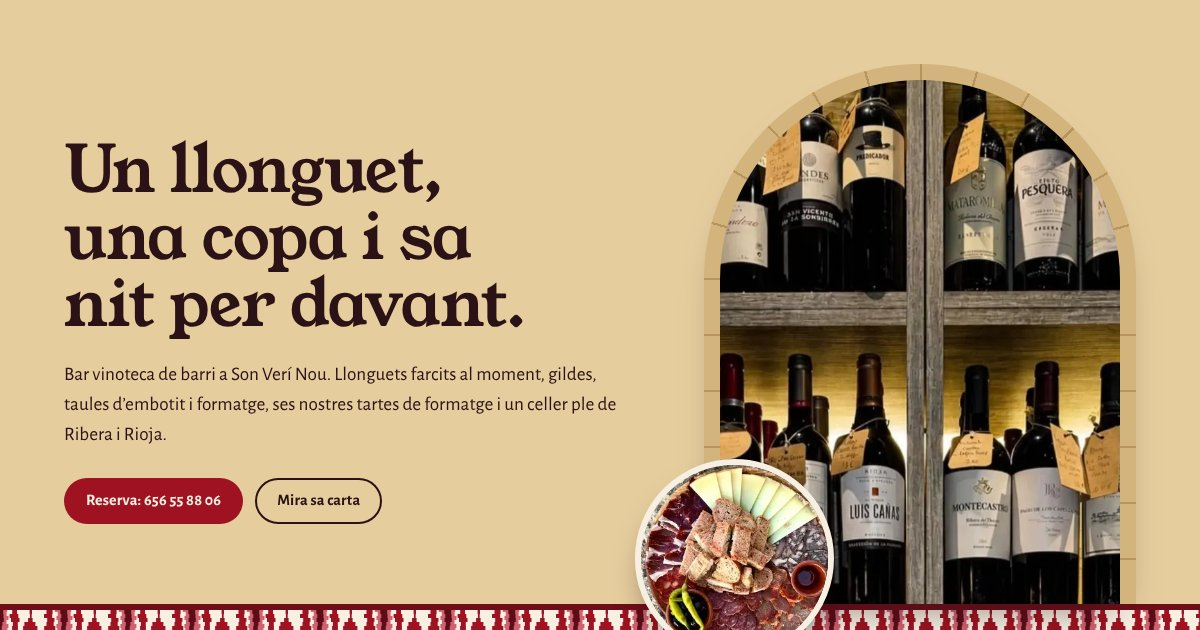
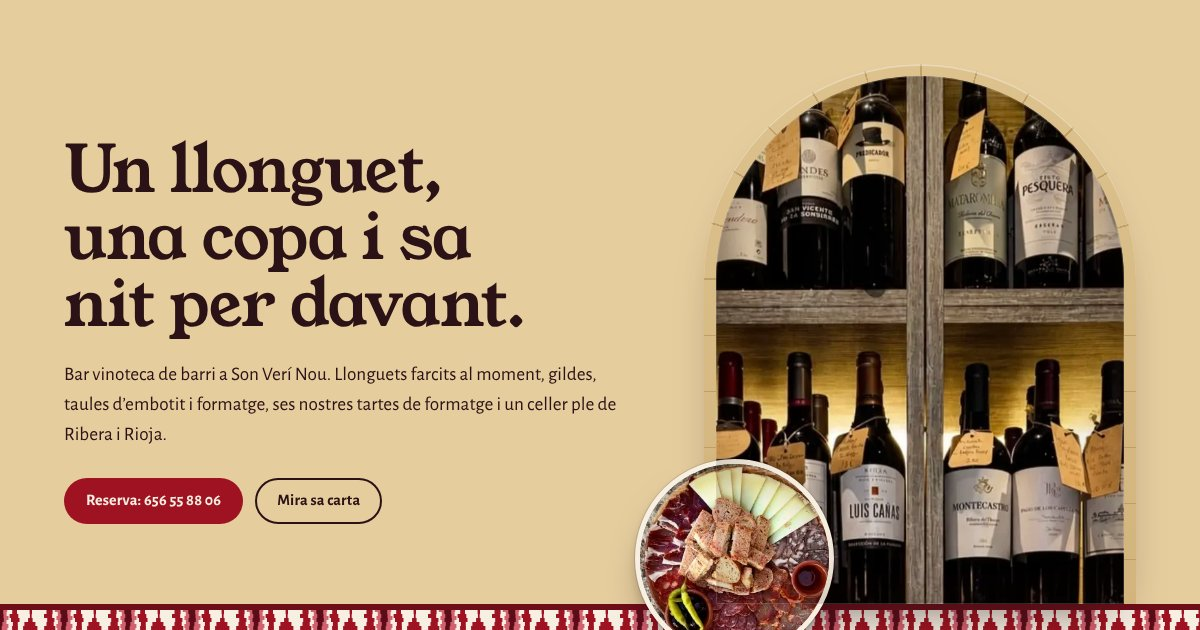
Acabado fino de las fotos: marcos, efectos y animaciones
- Copias con paspartú y pie de foto en mallorquín en la carta
- Filete de galería, sombra y zoom lento en bodega y terraza
- Viñeteado, filo de luz y velo cálido común a todas las fotos
- Fundido sobre el color de cada foto mientras carga
- Arco de marès más fino que se abre al cargar; la tabla entra girando
- Cortina al hacer scroll; sin animaciones con reducir movimiento o sin JS

Claude-Session: https://claude.ai/code/session_01FvQHSWCgW5JPcxUeBWVqzS

Changed region(s): [[0.5242, 0.0905, 0.9558, 1.0]]

diff --git a/css/styles.css b/css/styles.css
@@ -32,6 +32,10 @@
   --gutter: clamp(1rem, 4vw, 2.5rem);
   --header-h: 5rem;
   --radius: 4px;
+
+  /* Movimiento */
+  --ease-out: cubic-bezier(0.2, 0.7, 0.2, 1);
+  --ease-cortina: cubic-bezier(0.65, 0, 0.35, 1);
 }
 
 /* -------- Base -------------------------------------------------------- */
@@ -201,18 +205,27 @@ picture { display: block; }
 .hero-photos { position: relative; max-width: 27rem; width: 100%; margin-left: auto; }
 .arc {
   aspect-ratio: 4 / 5;
-  padding: 16px 16px 0;
+  padding: 12px 12px 0;
   border-radius: 999px 999px 0 0;
   background:
     /* juntas de las dovelas, radiales desde el centro del arco */
-    repeating-conic-gradient(from 270deg at 50% 100%, var(--junta) 0deg 0.6deg, transparent 0.6deg 15deg) top / 100% 40% no-repeat,
+    repeating-conic-gradient(from 270deg at 50% 100%, color-mix(in srgb, var(--junta) 75%, transparent) 0deg 0.45deg, transparent 0.45deg 15deg) top / 100% 40% no-repeat,
     /* juntas horizontales de las jambas */
-    repeating-linear-gradient(180deg, transparent 0 54px, var(--junta) 54px 56px) bottom / 100% 60% no-repeat,
-    var(--mares-fosc);
-  box-shadow: 0 24px 40px -24px rgba(43, 18, 22, 0.6);
+    repeating-linear-gradient(180deg, transparent 0 55px, color-mix(in srgb, var(--junta) 75%, transparent) 55px 56px) bottom / 100% 60% no-repeat,
+    linear-gradient(180deg, #DDC28E, var(--mares-fosc));
+  box-shadow:
+    inset 0 2px 0 rgba(255, 255, 255, 0.35),
+    0 1px 0 rgba(43, 18, 22, 0.06),
+    0 30px 50px -28px rgba(43, 18, 22, 0.65);
 }
-.arc picture, .arc img { width: 100%; height: 100%; }
-.arc img { object-fit: cover; border-radius: 999px 999px 0 0; }
+.arc picture {
+  position: relative;
+  width: 100%; height: 100%;
+  overflow: hidden;
+  border-radius: 999px 999px 0 0;
+  background: radial-gradient(ellipse at 50% 70%, #4A2A1E, var(--vi) 75%);
+}
+.arc img { width: 100%; height: 100%; object-fit: cover; }
 
 .taula-redona {
   position: absolute;
@@ -222,10 +235,15 @@ picture { display: block; }
   aspect-ratio: 1;
   border-radius: 50%;
   overflow: hidden;
-  border: 6px solid var(--cal);
-  box-shadow: 0 18px 30px -12px rgba(43, 18, 22, 0.55);
+  border: 5px solid var(--cal);
+  background: var(--ph, var(--mares-fosc));
+  box-shadow:
+    0 0 0 1px rgba(43, 18, 22, 0.14),
+    0 4px 8px rgba(43, 18, 22, 0.12),
+    0 22px 36px -14px rgba(43, 18, 22, 0.55);
 }
-.taula-redona img { width: 100%; height: 100%; object-fit: cover; }
+.taula-redona picture { position: relative; height: 100%; border-radius: 50%; }
+.taula-redona img { width: 100%; height: 100%; object-fit: cover; transition: transform 1.8s var(--ease-out), opacity 0.7s ease; }
 
 /* -------- Mantel de llengües + carta ---------------------------------- */
 .mantel {
@@ -260,8 +278,7 @@ picture { display: block; }
 .carta-section + .carta-section { border-top: 1px dashed color-mix(in srgb, var(--vi) 22%, transparent); }
 .carta-intro h3 { font-size: var(--t-lg); color: var(--grana); }
 .carta-intro p { color: var(--vi-suau); font-size: 1.02rem; }
-.carta-foto { margin-top: 1.1rem; }
-.carta-foto img { width: 100%; border-radius: var(--radius); box-shadow: 0 10px 20px -12px rgba(43, 18, 22, 0.55); }
+.carta-foto { margin-top: 1.4rem; }
 
 .dishes { list-style: none; margin: 0; padding: 0; align-self: start; }
 .dish { display: grid; gap: 0.15rem; padding-block: 0.95rem; border-bottom: 1px dotted color-mix(in srgb, var(--vi) 30%, transparent); }
@@ -318,7 +335,6 @@ picture { display: block; }
 .celler-copy p { color: color-mix(in srgb, var(--cal) 82%, transparent); max-width: 32em; }
 .celler-copy .section-lead { color: var(--cal); }
 .celler-copy .btn { margin-top: 0.5rem; }
-.celler-foto img { width: 100%; border-radius: var(--radius); box-shadow: 0 20px 40px -20px rgba(0, 0, 0, 0.8); }
 
 /* -------- Sa terrasseta ----------------------------------------------- */
 .terrassa { padding-block: clamp(4rem, 9vw, 7rem); }
@@ -328,7 +344,6 @@ picture { display: block; }
   gap: clamp(2rem, 5vw, 4rem);
   align-items: center;
 }
-.terrassa-foto img { width: 100%; border-radius: var(--radius); box-shadow: 0 20px 40px -24px rgba(43, 18, 22, 0.7); }
 .terrassa-copy .section-lead { color: var(--vi-suau); }
 .terrassa-quote { font-family: var(--f-display); font-size: clamp(2rem, 4vw, 2.75rem); color: var(--grana); margin: 0; }
 
@@ -410,6 +425,124 @@ address a { font-weight: 700; }
 .social { list-style: none; display: flex; gap: 1.25rem; margin: 0; padding: 0; }
 .social a { font-weight: 500; }
 .footer-note { margin: 0; color: color-mix(in srgb, var(--cal) 70%, transparent); font-size: var(--t-sm); }
+
+
+/* =========================================================================
+   FOTOS: acabado común, marcos y animaciones
+   ========================================================================= */
+
+/* Acabado común: fondo del color de la foto mientras carga, filo de luz,
+   viñeteado suave y un velo cálido que unifica fotos de origen distinto */
+.foto { position: relative; }
+.foto picture {
+  position: relative;
+  overflow: hidden;
+  border-radius: var(--r-foto, 12px);
+  background: var(--ph, var(--mares-fosc));
+}
+.foto img { width: 100%; transform: scale(var(--s, 1)); transition: transform 1.4s var(--ease-out), opacity 0.7s ease; }
+.foto picture::before,
+.arc picture::before,
+.taula-redona picture::before {
+  content: ""; position: absolute; inset: 0; z-index: 1; pointer-events: none;
+  border-radius: inherit;
+  background: linear-gradient(160deg, rgba(255, 210, 150, 0.22), rgba(110, 14, 25, 0.16));
+  mix-blend-mode: soft-light;
+}
+.foto picture::after,
+.arc picture::after,
+.taula-redona picture::after {
+  content: ""; position: absolute; inset: 0; z-index: 2; pointer-events: none;
+  border-radius: inherit;
+  box-shadow: inset 0 0 0 1px rgba(255, 255, 255, 0.16), inset 0 0 80px rgba(30, 10, 8, 0.3);
+}
+.taula-redona picture::after { box-shadow: inset 0 0 40px rgba(30, 10, 8, 0.35); }
+
+/* Copias sobre el papel de la carta: paspartú, pie de foto y un leve giro a mano */
+.foto-mat {
+  --r-foto: 3px;
+  --tilt: -0.8deg;
+  background: #FFFDF8;
+  padding: 8px 8px 0;
+  border-radius: 6px;
+  box-shadow:
+    0 1px 1px rgba(43, 18, 22, 0.08),
+    0 3px 6px rgba(43, 18, 22, 0.06),
+    0 16px 30px -16px rgba(43, 18, 22, 0.5);
+  transform: translateY(var(--ty, 0)) rotate(var(--tilt));
+  transition: transform 0.6s var(--ease-out), box-shadow 0.6s ease, opacity 0.9s ease;
+}
+.carta-section:nth-child(odd) .foto-mat { --tilt: 0.7deg; }
+.foto-mat figcaption {
+  font-style: italic;
+  font-size: 0.92rem;
+  color: var(--vi-suau);
+  text-align: center;
+  padding: 0.55rem 0.25rem 0.65rem;
+}
+
+/* Fotos grandes: filete fino desplazado, como un cuadro de galería */
+.foto-marc { --r-foto: 14px; color: inherit; }
+.foto-marc picture {
+  outline: 1px solid color-mix(in srgb, currentColor 32%, transparent);
+  outline-offset: 10px;
+  box-shadow: 0 34px 60px -34px rgba(0, 0, 0, 0.75);
+}
+.foto-marc figcaption {
+  margin-top: 1.5rem;
+  font-style: italic;
+  font-size: 0.98rem;
+  opacity: 0.78;
+}
+
+/* Fundido al cargar: la foto aparece sobre su propio color, sin saltos */
+.js-reveal .foto img,
+.js-reveal .arc img,
+.js-reveal .taula-redona img { opacity: 0; }
+.js-reveal .foto img.is-loaded,
+.js-reveal .arc img.is-loaded,
+.js-reveal .taula-redona img.is-loaded { opacity: 1; }
+
+/* Al hacer scroll: las fotos grandes se descubren como una cortina
+   y las copias de la carta se posan sobre el papel */
+/* la cortina recorta la imagen, no el marco: el filete y la sombra se ven desde el principio */
+.js-reveal .foto-marc.reveal img {
+  clip-path: inset(0 0 0 0);
+  transition: clip-path 1.3s var(--ease-cortina), transform 1.6s var(--ease-out), opacity 0.7s ease;
+}
+.js-reveal .foto-marc.reveal:not(.is-visible) img { clip-path: inset(100% 0 0 0); }
+.js-reveal .reveal:not(.is-visible) img { --s: 1.12; }
+.js-reveal .foto-mat.reveal:not(.is-visible) { --ty: 22px; opacity: 0; }
+
+/* Portada: el arco se abre de abajo arriba y la tabla entra girando */
+@media (prefers-reduced-motion: no-preference) {
+  .js-reveal .arc img { animation: obrir-arc 1.5s var(--ease-cortina) 0.1s both, assentar 2.4s var(--ease-out) 0.1s both; }
+  .js-reveal .taula-redona { animation: girar-taula 1.4s var(--ease-out) 0.8s both; }
+}
+@keyframes obrir-arc {
+  from { clip-path: inset(100% 0 0 0); }
+  to { clip-path: inset(0 0 0 0); }
+}
+@keyframes assentar { from { transform: scale(1.18); } to { transform: scale(1); } }
+@keyframes girar-taula {
+  from { opacity: 0; transform: rotate(-50deg) scale(0.8); }
+  to { opacity: 1; transform: none; }
+}
+
+/* Con ratón: zoom lento dentro del marco, la copia se levanta del papel
+   y la tabla redonda gira un poco, como si alguien la acercara */
+@media (hover: hover) and (pointer: fine) and (prefers-reduced-motion: no-preference) {
+  .foto-marc:hover img { --s: 1.045; }
+  .foto-mat:hover {
+    --ty: -5px; --tilt: 0deg;
+    box-shadow:
+      0 2px 2px rgba(43, 18, 22, 0.08),
+      0 8px 14px rgba(43, 18, 22, 0.08),
+      0 26px 40px -18px rgba(43, 18, 22, 0.55);
+  }
+  .foto-mat:hover img { --s: 1.03; }
+  .taula-redona:hover img { transform: rotate(14deg) scale(1.05); }
+}
 
 /* -------- Responsive -------------------------------------------------- */
 @media (max-width: 62rem) {

diff --git a/index.html b/index.html
@@ -21,6 +21,16 @@
   <link rel="preload" href="fonts/alegreya-sans-400-latin.woff2" as="font" type="font/woff2" crossorigin>
   <link rel="stylesheet" href="css/fonts.css">
   <link rel="stylesheet" href="css/styles.css">
+  <script>
+    /* Activa las animaciones de las fotos solo si el navegador puede y el usuario no pide menos movimiento.
+       Si main.js no llegara a cargar, a los 3 s se muestra todo igualmente. */
+    (function (d) {
+      if ('IntersectionObserver' in window && !matchMedia('(prefers-reduced-motion: reduce)').matches) {
+        d.classList.add('js-reveal');
+        setTimeout(function () { if (!d.dataset.ready) d.classList.remove('js-reveal'); }, 3000);
+      }
+    })(document.documentElement);
+  </script>
 
   <script type="application/ld+json">
   {
@@ -129,7 +139,7 @@
                    data-i18n-attr="alt:altArc">
             </picture>
           </figure>
-          <figure class="taula-redona">
+          <figure class="taula-redona" style="--ph:#9a7b68">
             <picture>
               <source type="image/webp" srcset="img/fotos/taula-redona-292.webp">
               <img src="img/fotos/taula-redona-292.jpg" width="292" height="292"
@@ -153,13 +163,14 @@
           <div class="carta-intro">
             <h3 lang="ca">Per picar</h3>
             <p data-i18n="picarIntro">Para abrir boca con la copa en la mano.</p>
-            <figure class="carta-foto">
+            <figure class="carta-foto foto foto-mat reveal" style="--ph:#877757">
               <picture>
                 <source type="image/webp" srcset="img/fotos/gildes-310.webp">
                 <img src="img/fotos/gildes-310.jpg" width="310" height="413" loading="lazy"
                      alt="Gildas y banderillas de aceituna, anchoa, piparra y champiñón relleno con palillos de Es Racó"
                      data-i18n-attr="alt:altGildes">
               </picture>
+              <figcaption lang="ca">Gildes amb escuradents de sa casa</figcaption>
             </figure>
           </div>
           <ul class="dishes">
@@ -186,13 +197,14 @@
           <div class="carta-intro">
             <h3 lang="ca">Ses taules</h3>
             <p data-i18n="taulesIntro">Tablas de madera para el centro de la mesa, con pan tostado, aceite, aceitunas y piparras.</p>
-            <figure class="carta-foto">
+            <figure class="carta-foto foto foto-mat reveal" style="--ph:#95897b">
               <picture>
                 <source type="image/webp" srcset="img/fotos/taula-formatges-308.webp">
                 <img src="img/fotos/taula-formatges-308.jpg" width="308" height="413" loading="lazy"
                      alt="Tabla de madera con cuñas de queso curado, pan tostado, aceite, aceitunas y piparras"
                      data-i18n-attr="alt:altFormatges">
               </picture>
+              <figcaption lang="ca">Taula de formatges</figcaption>
             </figure>
           </div>
           <ul class="dishes">
@@ -219,13 +231,14 @@
           <div class="carta-intro">
             <h3 lang="ca">Llonguets</h3>
             <p data-i18n="llonguetIntro">El panecillo de Palma de toda la vida: corteza fina que cruje y miga tierna. Lo abrimos y lo rellenamos al momento.</p>
-            <figure class="carta-foto carta-foto-wide">
+            <figure class="carta-foto carta-foto-wide foto foto-mat reveal" style="--ph:#815836">
               <picture>
                 <source type="image/webp" srcset="img/fotos/llonguet-606.webp">
                 <img src="img/fotos/llonguet-606.jpg" width="606" height="338" loading="lazy"
                      alt="Llonguet de carrillera abierto por la mitad, con aceitunas al lado"
                      data-i18n-attr="alt:altLlonguet">
               </picture>
+              <figcaption lang="ca">Llonguet de galta</figcaption>
             </figure>
           </div>
           <ul class="dishes">
@@ -252,13 +265,14 @@
           <div class="carta-intro">
             <h3 lang="ca">Ses postres</h3>
             <p data-i18n="postresIntro">Elige tu tarta de queso o pide varias para compartir.</p>
-            <figure class="carta-foto">
+            <figure class="carta-foto foto foto-mat reveal" style="--ph:#a9967f">
               <picture>
                 <source type="image/webp" srcset="img/fotos/tartes-520.webp">
                 <img src="img/fotos/tartes-520.jpg" width="520" height="650" loading="lazy"
                      alt="Cuatro porciones de tarta de queso: clásica con mermelada de frutos rojos, pistacho, chocolate y frutos rojos con merengue"
                      data-i18n-attr="alt:altTartes">
               </picture>
+              <figcaption lang="ca">Ses quatre tartes</figcaption>
             </figure>
           </div>
           <ul class="dishes">
@@ -318,7 +332,7 @@
           <p data-i18n="cellerCestas">También preparamos lotes y cestas para regalar, con vino, embutido y queso.</p>
           <a class="btn btn-light" href="tel:+34656558806" data-i18n="cellerCta">Encargar una cesta</a>
         </div>
-        <figure class="celler-foto">
+        <figure class="celler-foto foto foto-marc reveal" style="--ph:#514537">
           <picture>
             <source type="image/webp" srcset="img/fotos/celler-640.webp 640w, img/fotos/celler-1141.webp 1141w" sizes="(max-width: 52rem) 100vw, 55vw">
             <img src="img/fotos/celler-1141.jpg" srcset="img/fotos/celler-640.jpg 640w, img/fotos/celler-1141.jpg 1141w" sizes="(max-width: 52rem) 100vw, 55vw"
@@ -326,6 +340,7 @@
                  alt="Botellas de vino en la estantería con etiquetas de cartón escritas a mano con el precio"
                  data-i18n-attr="alt:altCeller">
           </picture>
+          <figcaption lang="ca">Ses etiquetes, escrites a mà.</figcaption>
         </figure>
       </div>
     </section>
@@ -333,7 +348,7 @@
     <!-- SA TERRASSETA ================================================= -->
     <section class="terrassa" id="terrassa" aria-labelledby="terrassa-title">
       <div class="wrap terrassa-grid">
-        <figure class="terrassa-foto">
+        <figure class="terrassa-foto foto foto-marc reveal" style="--ph:#834e3d">
           <picture>
             <source type="image/webp" srcset="img/fotos/terrassa-640.webp 640w, img/fotos/terrassa-1117.webp 1117w" sizes="(max-width: 52rem) 100vw, 60vw">
             <img src="img/fotos/terrassa-1117.jpg" srcset="img/fotos/terrassa-640.jpg 640w, img/fotos/terrassa-1117.jpg 1117w" sizes="(max-width: 52rem) 100vw, 60vw"
@@ -341,6 +356,7 @@
                  alt="Terraza con pérgola de madera, suelo de barro y sillas de director granates con el logo de Es Racó"
                  data-i18n-attr="alt:altTerrassa">
           </picture>
+          <figcaption lang="ca">Sa terrasseta, a s’horabaixa.</figcaption>
         </figure>
         <div class="terrassa-copy">
           <h2 id="terrassa-title" lang="ca">Sa terrasseta</h2>

diff --git a/js/main.js b/js/main.js
@@ -183,6 +183,30 @@
     });
   }
 
+  /* ---------- Fotos: fundido al cargar y cortina al hacer scroll --- */
+  const root = document.documentElement;
+  root.dataset.ready = '1';   // avisa al script de la cabecera de que todo ha cargado
+
+  document.querySelectorAll('.foto img, .arc img, .taula-redona img').forEach((img) => {
+    const done = () => img.classList.add('is-loaded');
+    if (img.complete && img.naturalWidth) done();
+    else {
+      img.addEventListener('load', done, { once: true });
+      img.addEventListener('error', done, { once: true });
+    }
+  });
+
+  if (root.classList.contains('js-reveal')) {
+    const io = new IntersectionObserver((entries) => {
+      entries.forEach((entry) => {
+        if (!entry.isIntersecting) return;
+        entry.target.classList.add('is-visible');
+        io.unobserve(entry.target);
+      });
+    }, { rootMargin: '0px 0px -12% 0px', threshold: 0.15 });
+    document.querySelectorAll('.reveal').forEach((el) => io.observe(el));
+  }
+
   /* ---------- Año del pie ----------------------------------------- */
   const year = document.querySelector('[data-year]');
   if (year) year.textContent = String(new Date().getFullYear());

diff --git a/docs/DISENO.md b/docs/DISENO.md
@@ -138,3 +138,19 @@ la «nueva terrazita» con sillas de director granates y el cartel del menú de 
   pa amb oli y las cuatro tartas de queso. **Sin precios** hasta que el local los confirme.
 - Secciones nuevas: **Sopars de grup i d'empresa** (menú de Navidad de 35 €), **Es celler** con la foto de las etiquetas
   y **Sa terrasseta**.
+
+## 5. Acabado de las fotos (18/11/2026)
+
+Para que las fotos no parezcan recortes pegados:
+- **Acabado común**: cada foto aparece sobre su propio color medio mientras carga, con fundido;
+  lleva un filo de luz de 1 px, un viñeteado interior suave y un velo cálido (`soft-light`) que iguala
+  el tono de fotos de origen distinto (stories, collage, cartel).
+- **Carta**: las fotos son copias sobre el papel, con paspartú blanco, pie de foto en mallorquín y un giro leve
+  alterno (±0,8°). Con el ratón se enderezan y se levantan.
+- **Bodega y terraza**: filete fino desplazado 10 px, como un cuadro de galería, sombra larga y pie de foto.
+  Con el ratón, zoom lento dentro del marco.
+- **Arco de la portada**: piedra más fina, con luz arriba. Al cargar, la foto sube desde abajo sobre un interior oscuro
+  y la tabla redonda entra girando.
+- **Al hacer scroll**: las fotos grandes se descubren como una cortina y las de la carta se posan.
+- **Accesibilidad**: con «reducir movimiento» o sin JavaScript no hay animaciones y todas las fotos se ven desde el principio.
+  Si `main.js` no cargara, a los 3 s se muestra todo igualmente.
